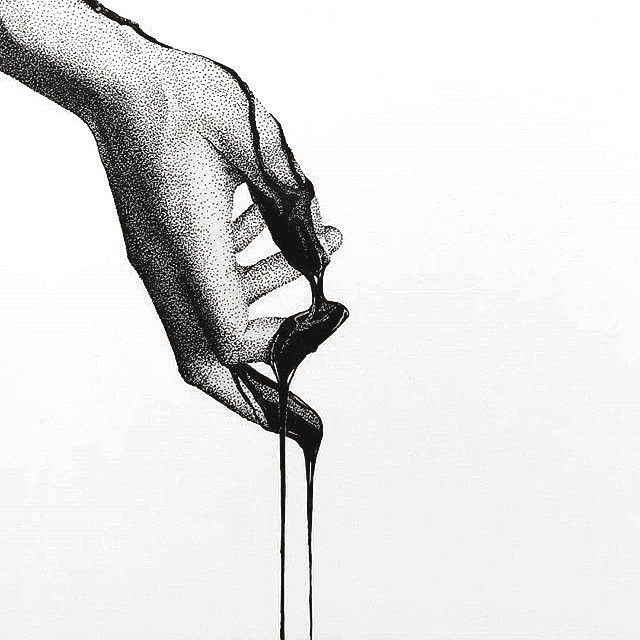
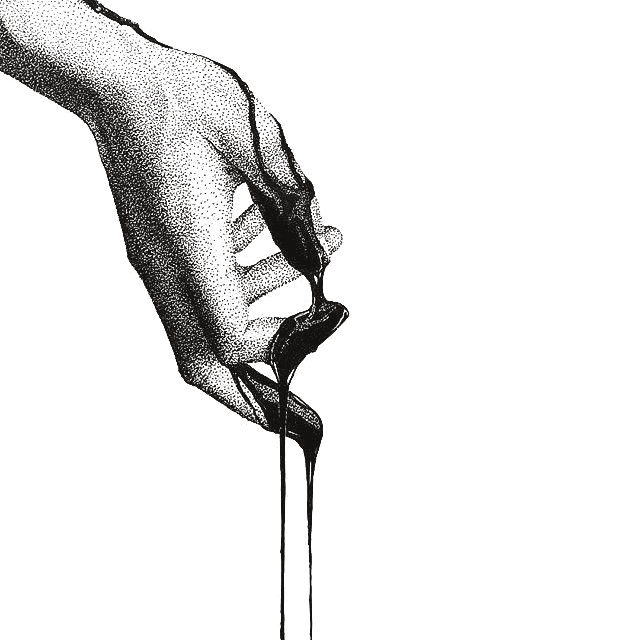
AB-233: refactor(frontend): put the hand and the profile in the honest section
The hand and the profile flank the limits paragraph inside How we keep the AI
honest instead of adding a space below it. The three drawings are rebuilt as
ink-colored transparent PNGs with the paper noise removed, so they take the
page background and palette without a lighter box.

diff --git a/app/frontend/src/features/story/components/Honesty.module.css b/app/frontend/src/features/story/components/Honesty.module.css
@@ -1,60 +1,55 @@
-.spacer {
-  position: relative;
-  height: 22rem;
-  margin-top: 1.5rem;
+.row {
+  display: grid;
+  grid-template-columns: 13rem minmax(0, 1fr) 13rem;
+  gap: 1.5rem;
+  align-items: end;
+  margin-top: 2.5rem;
+  padding-top: 1rem;
+  border-top: 1px solid rgba(20, 18, 16, 0.15);
+}
+
+.row p {
+  margin: 0;
+  padding: 0;
+  max-width: none;
+  border: 0;
+}
+
+.hand,
+.face {
+  background-repeat: no-repeat;
+  background-size: contain;
+  pointer-events: none;
+  mask-composite: intersect;
+  -webkit-mask-composite: source-in;
 }
 
 .hand {
-  position: absolute;
-  bottom: 0;
-  left: -8rem;
-  width: 22rem;
-  height: 22rem;
+  aspect-ratio: 1;
   background-image: url("/story/hand-ink.png");
-  background-size: cover;
-  background-position: center;
-  background-repeat: no-repeat;
-  opacity: 0.9;
-  mask-image: linear-gradient(180deg, transparent 0%, #000 22%),
-    radial-gradient(ellipse 75% 75% at 45% 45%, #000 50%, transparent 100%);
-  -webkit-mask-image: linear-gradient(180deg, transparent 0%, #000 22%),
-    radial-gradient(ellipse 75% 75% at 45% 45%, #000 50%, transparent 100%);
-  mask-composite: intersect;
-  -webkit-mask-composite: source-in;
-  pointer-events: none;
+  background-position: left bottom;
+  mask-image: linear-gradient(180deg, transparent 0%, #000 28%),
+    linear-gradient(90deg, #000 70%, transparent 100%);
+  -webkit-mask-image: linear-gradient(180deg, transparent 0%, #000 28%),
+    linear-gradient(90deg, #000 70%, transparent 100%);
 }
 
 .face {
-  position: absolute;
-  bottom: 0;
-  right: -7rem;
-  width: 24rem;
-  height: 26.75rem;
+  aspect-ratio: 749 / 835;
   background-image: url("/story/face-ink.png");
-  background-size: cover;
-  background-position: center;
-  background-repeat: no-repeat;
-  opacity: 0.9;
-  mask-image: linear-gradient(180deg, transparent 0%, #000 22%),
-    radial-gradient(ellipse 75% 75% at 55% 40%, #000 50%, transparent 100%);
-  -webkit-mask-image: linear-gradient(180deg, transparent 0%, #000 22%),
-    radial-gradient(ellipse 75% 75% at 55% 40%, #000 50%, transparent 100%);
-  mask-composite: intersect;
-  -webkit-mask-composite: source-in;
-  pointer-events: none;
+  background-position: right bottom;
+  mask-image: linear-gradient(180deg, transparent 0%, #000 28%),
+    linear-gradient(270deg, #000 70%, transparent 100%);
+  -webkit-mask-image: linear-gradient(180deg, transparent 0%, #000 28%),
+    linear-gradient(270deg, #000 70%, transparent 100%);
 }
 
-@media (max-width: 720px) {
-  .spacer {
-    height: 12rem;
+@media (max-width: 900px) {
+  .row {
+    grid-template-columns: minmax(0, 1fr);
   }
 
-  .hand {
-    left: -3rem;
-    width: 16rem;
-    height: 16rem;
-  }
-
+  .hand,
   .face {
     display: none;
   }

diff --git a/app/frontend/src/features/story/components/Honesty.tsx b/app/frontend/src/features/story/components/Honesty.tsx
@@ -40,16 +40,16 @@ export function Honesty() {
           </div>
         ))}
       </div>
-      <p className={styles.limits}>
-        What Ether does not claim: it is decision support, not a medical device
-        and not a diagnosis. The classifier is a baseline model trained on a
-        public dataset and not clinically validated, and the studies shown in
-        the demo are samples. The chat answers are not yet checked by the
-        verifier, and are labelled that way.
-      </p>
-      <div className={art.spacer} aria-hidden="true">
-        <div className={art.hand} />
-        <div className={art.face} />
+      <div className={art.row}>
+        <div className={art.hand} aria-hidden="true" />
+        <p className={styles.limits}>
+          What Ether does not claim: it is decision support, not a medical
+          device and not a diagnosis. The classifier is a baseline model trained
+          on a public dataset and not clinically validated, and the studies
+          shown in the demo are samples. The chat answers are not yet checked by
+          the verifier, and are labelled that way.
+        </p>
+        <div className={art.face} aria-hidden="true" />
       </div>
     </section>
   );
